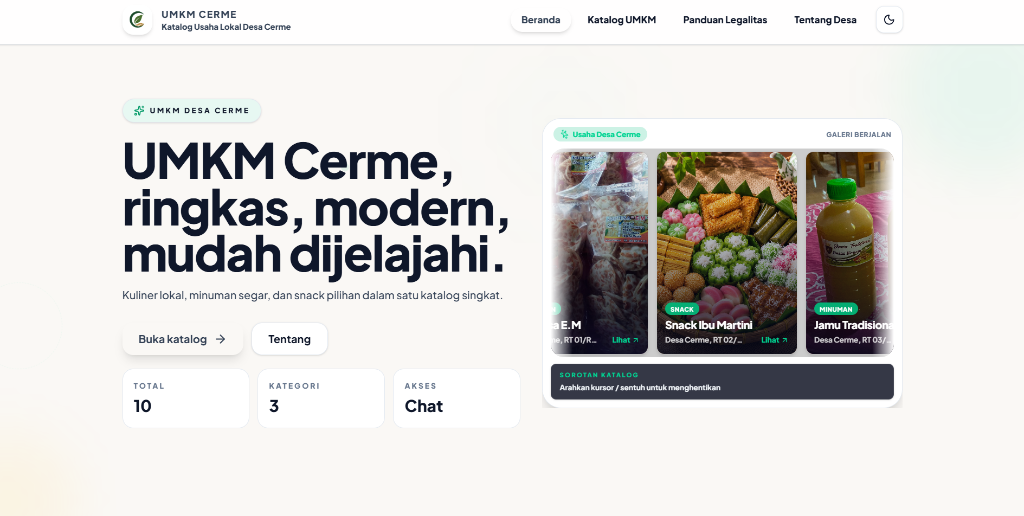
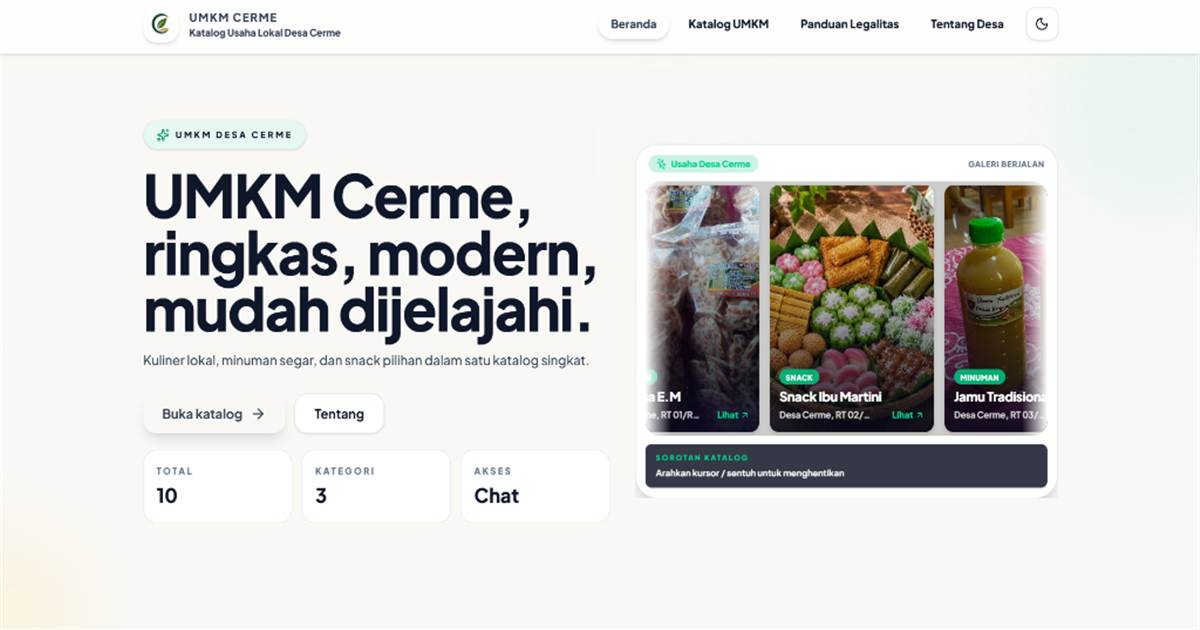
Optimize WhatsApp Open Graph JPEG image to 64KB with cache-busting meta tags

diff --git a/index.html b/index.html
@@ -28,7 +28,9 @@
       property="og:description"
       content="Katalog digital usaha lokal Desa Cerme - Temukan produk olahan kuliner, minuman tradisional, dan snack khas warga Desa Cerme."
     />
-    <meta property="og:image" content="https://webcerme.vercel.app/og-image.png" />
+    <meta property="og:image" content="https://webcerme.vercel.app/og-image.jpg?v=2" />
+    <meta property="og:image:secure_url" content="https://webcerme.vercel.app/og-image.jpg?v=2" />
+    <meta property="og:image:type" content="image/jpeg" />
     <meta property="og:image:width" content="1200" />
     <meta property="og:image:height" content="630" />
     <meta property="og:site_name" content="UMKM Desa Cerme" />
@@ -41,7 +43,7 @@
       name="twitter:description"
       content="Katalog digital usaha lokal Desa Cerme - Temukan produk olahan kuliner, minuman tradisional, dan snack khas warga Desa Cerme."
     />
-    <meta name="twitter:image" content="https://webcerme.vercel.app/og-image.png" />
+    <meta name="twitter:image" content="https://webcerme.vercel.app/og-image.jpg?v=2" />
   </head>
   <body>
     <div id="root"></div>
